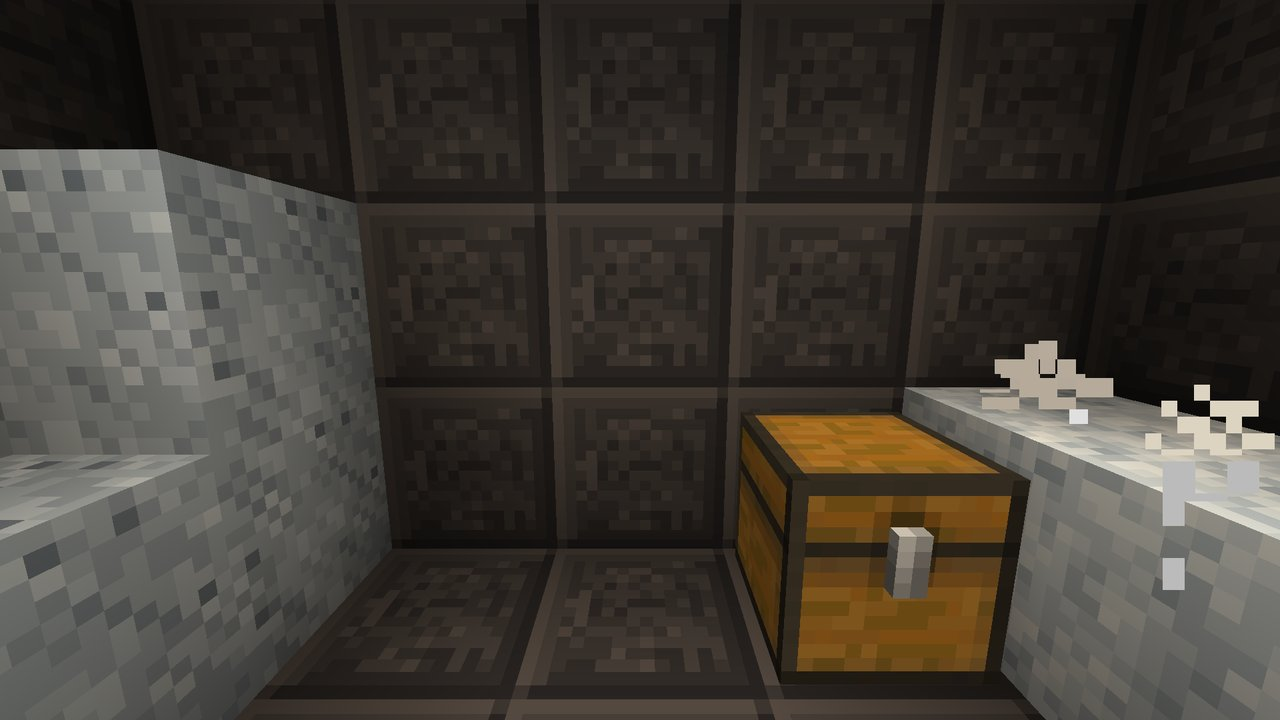
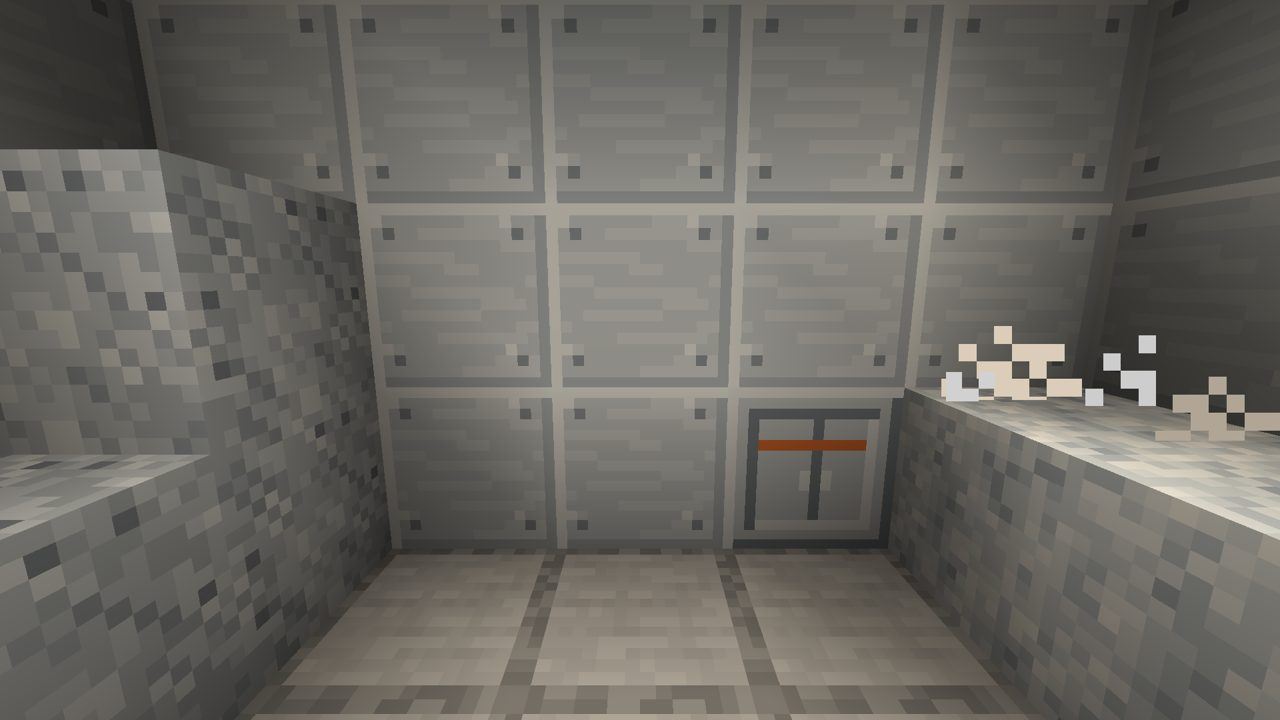
Phobos probe wreck and Deimos ice cache rebuilt
The Phobos sample-return probe is a small octagonal capsule nosed into its impact pit, with a foil band, a brown heat shield, its hatch blown open, one solar wing still on its arm and the other thrown out; the sample vault is a supply locker. The Deimos cache is lined with aluminium panels and lit by an LED under a cable duct, with supply lockers and a floodlit marker mast. Same loot and test.

diff --git a/src/main/java/com/pizzaparker07/spacebreaker/content/mars/dungeon/MoonletDungeonPiece.java b/src/main/java/com/pizzaparker07/spacebreaker/content/mars/dungeon/MoonletDungeonPiece.java
@@ -86,33 +86,78 @@ public class MoonletDungeonPiece extends StructurePiece {
                 }
             }
         }
-        // the probe body, tilted into the pit floor
-        int by = G - 2;
-        for (int x = 6; x <= 8; x++) {
-            for (int z = 6; z <= 8; z++) {
-                placeBlock(level, x == 7 && z == 7 ? s(Blocks.GOLD_BLOCK) : s(Blocks.WHITE_CONCRETE), x, by, z, box);
+        // the probe: a small octagonal capsule nosed into the pit floor, its heat shield to the east, the hatch to the
+        // west torn open; the sample vault is still sealed inside
+        int by = G - 3;
+        BlockState hull = s(Blocks.SMOOTH_QUARTZ);
+        BlockState rib = s(Blocks.POLISHED_ANDESITE);
+        BlockState foil = s(com.pizzaparker07.spacebreaker.content.belt.LanderBlocks.GOLD_FOIL_CLADDING.get());
+        for (int x = 4; x <= 9; x++) {
+            int sink = x >= 8 ? 1 : 0; // the nose went in deeper
+            boolean cap = x == 4 || x == 9;
+            for (int u = -2; u <= 2; u++) {
+                int au = Math.abs(u);
+                Direction in = u < 0 ? Direction.SOUTH : Direction.NORTH;
+                for (int v = 0; v <= 3; v++) {
+                    int y = by + v - sink;
+                    BlockState st = null;
+                    boolean interior = (au <= 1 && v >= 1 && v <= 2) || (au == 0 && v == 3);
+                    if (v == 0 && au <= 1) {
+                        st = cap ? rib : s(Blocks.SMOOTH_STONE);
+                    } else if (v == 0) {
+                        st = s(Blocks.SMOOTH_QUARTZ_STAIRS).setValue(net.minecraft.world.level.block.StairBlock.FACING, in)
+                                .setValue(net.minecraft.world.level.block.StairBlock.HALF, Half.TOP);
+                    } else if (interior) {
+                        st = cap ? rib : s(Blocks.AIR);
+                    } else if (au == 2 && v <= 2) {
+                        st = cap ? rib : v == 1 ? foil : hull;
+                    } else if (au == 2) {
+                        st = s(Blocks.SMOOTH_QUARTZ_STAIRS).setValue(net.minecraft.world.level.block.StairBlock.FACING, in);
+                    } else if (v == 3) {
+                        st = cap ? rib : hull;
+                    }
+                    if (st != null) {
+                        com.pizzaparker07.spacebreaker.content.dungeons.PieceOrientation.place(level, this, st, x, y, 7 + u, box);
+                    }
+                }
             }
         }
-        placeBlock(level, s(Blocks.WHITE_CONCRETE), 7, by + 1, 7, box);
-        placeBlock(level, s(Blocks.LIGHTNING_ROD), 7, by + 2, 7, box);
-        placeBlock(level, Blocks.IRON_TRAPDOOR.defaultBlockState().setValue(TrapDoorBlock.HALF, Half.TOP), 6, by + 1, 7, box);
-        // torn solar wings and debris thrown out of the pit
-        placeBlock(level, s(MachinesModule.SOLAR_PANEL.get()), 2, G + 1, 6, box);
-        placeBlock(level, s(MachinesModule.SOLAR_PANEL.get()), 12, G + 1, 9, box);
-        placeBlock(level, s(Blocks.IRON_BARS), 11, G + 2, 3, box);
-        placeBlock(level, s(Blocks.WHITE_CONCRETE), 3, G + 2, 11, box);
-        chest(level, box, 8, by + 1, 7, MarsLoot.PHOBOS_PROBE);
+        // the heat shield: a brown dish across the nose
+        for (int u = -2; u <= 2; u++) {
+            for (int v = 0; v <= 3; v++) {
+                if (Math.abs(u) + Math.abs(v - 1.5) <= 3) {
+                    placeBlock(level, Math.abs(u) <= 1 && v >= 1 && v <= 2 ? s(Blocks.BROWN_TERRACOTTA) : s(Blocks.TERRACOTTA), 10, by + v - 1, 7 + u, box);
+                }
+            }
+        }
+        // the hatch, blown open and lying in the dust
+        placeBlock(level, s(Blocks.AIR), 4, by + 1, 7, box);
+        placeBlock(level, s(Blocks.AIR), 4, by + 2, 7, box);
+        placeBlock(level, Blocks.IRON_TRAPDOOR.defaultBlockState().setValue(TrapDoorBlock.HALF, Half.BOTTOM), 3, by + 1, 6, box);
+        com.pizzaparker07.spacebreaker.content.dungeons.locker.SupplyLocker.place(level, this, 8, by, 7, Direction.WEST, MarsLoot.PHOBOS_PROBE,
+                seed ^ 0x51L, box);
+        // one solar wing still on its arm, the other torn off and thrown out of the pit
+        placeBlock(level, s(Blocks.CHAIN).setValue(net.minecraft.world.level.block.ChainBlock.AXIS, Direction.Axis.Z), 6, by + 2, 4, box);
+        placeBlock(level, s(MachinesModule.SOLAR_PANEL.get()), 6, by + 2, 3, box);
+        placeBlock(level, s(MachinesModule.SOLAR_PANEL.get()), 6, by + 2, 2, box);
+        placeBlock(level, s(MachinesModule.SOLAR_PANEL.get()), 11, G + 2, 12, box);
+        placeBlock(level, s(MachinesModule.SOLAR_PANEL.get()), 12, G + 2, 12, box);
+        // debris: shell plates and a bent antenna
+        placeBlock(level, s(Blocks.SMOOTH_QUARTZ_SLAB), 2, G + 2, 10, box);
+        placeBlock(level, s(Blocks.SMOOTH_QUARTZ_SLAB), 12, G + 2, 4, box);
+        placeBlock(level, s(Blocks.LIGHTNING_ROD), 6, by + 4, 7, box);
     }
 
     private void iceCache(WorldGenLevel level, BoundingBox box) {
-        BlockState wall = s(MarsModule.POLISHED_MARTIAN_BASALT.base().get());
+        BlockState wall = s(com.pizzaparker07.spacebreaker.content.rocketry.base.BaseBlocks.ALUMINUM_PANEL.base().get());
         // vault: 7 x 7 x 4 room, 6 blocks under the surface
         int fy = G - 7;
         for (int x = 4; x <= 10; x++) {
             for (int z = 4; z <= 10; z++) {
                 for (int y = fy; y <= fy + 4; y++) {
                     boolean shell = x == 4 || x == 10 || z == 4 || z == 10 || y == fy || y == fy + 4;
-                    placeBlock(level, shell ? wall : s(Blocks.AIR), x, y, z, box);
+                    boolean rib = (x == 4 || x == 10) && (z == 4 || z == 10) || y == fy + 4 && (x == 7 || z == 7);
+                    placeBlock(level, shell ? (y == fy ? s(Blocks.SMOOTH_STONE) : rib ? s(Blocks.POLISHED_ANDESITE) : wall) : s(Blocks.AIR), x, y, z, box);
                 }
             }
         }
@@ -125,9 +170,11 @@ public class MoonletDungeonPiece extends StructurePiece {
         }
         placeBlock(level, s(MarsModule.DRY_ICE.get()), 9, fy + 1, 9, box);
         placeBlock(level, s(MarsModule.DRY_ICE.get()), 9, fy + 1, 8, box);
-        placeBlock(level, Blocks.LANTERN.defaultBlockState().setValue(LanternBlock.HANGING, true), 7, fy + 3, 7, box);
-        chest(level, box, 9, fy + 1, 5, MarsLoot.DEIMOS_CACHE);
-        chest(level, box, 8, fy + 1, 9, MarsLoot.DEIMOS_CACHE);
+        placeBlock(level, s(com.pizzaparker07.spacebreaker.content.rocketry.base.BaseBlocks.LED_PANEL.get()), 7, fy + 4, 7, box);
+        com.pizzaparker07.spacebreaker.content.dungeons.locker.SupplyLocker.place(level, this, 10, fy + 1, 6, Direction.WEST, MarsLoot.DEIMOS_CACHE, seed ^ 0x61L, box);
+        com.pizzaparker07.spacebreaker.content.dungeons.locker.SupplyLocker.place(level, this, 8, fy + 1, 10, Direction.NORTH, MarsLoot.DEIMOS_CACHE, seed ^ 0x62L, box);
+        placeBlock(level, s(com.pizzaparker07.spacebreaker.content.rocketry.base.BaseBlocks.CABLE_DUCT.get()), 6, fy + 4, 7, box);
+        placeBlock(level, s(com.pizzaparker07.spacebreaker.content.rocketry.base.BaseBlocks.CABLE_DUCT.get()), 8, fy + 4, 7, box);
         // shaft with ladder up to a hatch on the surface
         for (int y = fy + 1; y <= G; y++) {
             placeBlock(level, s(Blocks.AIR), 7, y, 4, box);
@@ -140,7 +187,10 @@ public class MoonletDungeonPiece extends StructurePiece {
         for (int y = G + 1; y <= G + 4; y++) {
             placeBlock(level, s(Blocks.IRON_BARS), 9, y, 3, box);
         }
-        placeBlock(level, s(Blocks.REDSTONE_LAMP), 9, G + 5, 3, box);
+        placeBlock(level, s(Blocks.POLISHED_ANDESITE), 9, G + 5, 3, box);
+        com.pizzaparker07.spacebreaker.content.dungeons.PieceOrientation.place(level, this,
+                s(com.pizzaparker07.spacebreaker.content.rocketry.base.BaseBlocks.FLOODLIGHT.get())
+                        .setValue(net.minecraft.world.level.block.DirectionalBlock.FACING, Direction.UP), 9, G + 6, 3, box);
     }
 
     private void chest(WorldGenLevel level, BoundingBox box, int x, int y, int z, net.minecraft.resources.ResourceKey<net.minecraft.world.level.storage.loot.LootTable> loot) {

diff --git a/src/testmod/java/com/pizzaparker07/spacebreaker/testmod/mars/MarsMoonsGameTests.java b/src/testmod/java/com/pizzaparker07/spacebreaker/testmod/mars/MarsMoonsGameTests.java
@@ -99,11 +99,11 @@ public final class MarsMoonsGameTests {
             }
             int chests = 0;
             for (BlockPos p : BlockPos.betweenClosed(bb.minX(), bb.minY(), bb.minZ(), bb.maxX(), bb.maxY(), bb.maxZ())) {
-                if (level.getBlockState(p).is(Blocks.CHEST) && level.getBlockEntity(p) instanceof ChestBlockEntity c && c.getLootTable() != null) {
+                if (level.getBlockEntity(p) instanceof com.pizzaparker07.spacebreaker.content.dungeons.locker.SupplyLockerBlockEntity c && c.getLootTable() != null) {
                     chests++;
                 }
             }
-            helper.assertTrue(chests >= 1, (cache ? "ice cache" : "probe wreck") + " needs its loot chest");
+            helper.assertTrue(chests >= 1, (cache ? "ice cache" : "probe wreck") + " needs its loot locker");
         }
         helper.succeed();
     }

diff --git a/docs/CONTENT.md b/docs/CONTENT.md
@@ -178,7 +178,7 @@ Her içerik paketi gerçek istemcide vitrin dünyasında fotoğraflanır; onayda
 | 🎨 | Stickney krateri | Phobos'un dev krateri sabit yerde (doğuş noktasının ~320 blok doğusu, 230 blok yarıçap, 58 blok derin kase); arazi motoruna `named_craters` (ad, x, enlem, yarıçap, derinlik, tepe) eklendi |
 | 🎨 | Bloklar | Phobos Regoliti, Deimos Regoliti (kalıcı ayak izi), Karbonlu Kondrit |
 | 🎨 | Yaratık: Çapa Örücüsü (Tether Spinner) | Phobos ve Deimos'ta; altı bacaklı, uzun sekmelerle gider; her sekmeden önce zemine ipek ip yapıştırır, ip gerilince geri çekilir (küçük ayda kaçış hızı dersi); havada ip parıltıyla görünür, bacaklar toplanır; ip (string) bırakır; karbonlu kondritle çekilir/üretilir |
-| 🎨 | Zindanlar | Düşmüş Numune Dönüş Sondası (Phobos), Deimos Buz Deposu, Stickney'nin Çapalı İniş Aracı (dünyada tek: Stickney tabanında; küçük sekizgen gövde, altın folyo kaplama, açık bacaklar ve ayak tablaları, biri katlanmış, kuzeyde küçük güneş kanadı; vinç gövdeli 3 harpun, çift halatlı zincirlerle zemine bağlı; veri kaydedici Malzeme Dolabında, "1/2000 g: geri sekti" levhası; güvenlik ipi, mikro-yerçekimi madenciliği / uzay sondası diskleri), Deimos Röle Kulesi (spiral 12 kaya yığını, her biri 2 blok yüksek ve 4+ blok uzak: Dünya'da aşılamaz, Deimos'ta her gerçekçilik ayarında aşılır — test MC zıplama fiziğiyle doğrular; tepede röle ve veri kasası, "1/4000 g" levhası) |
+| 🎨 | Zindanlar | Düşmüş Numune Dönüş Sondası (Phobos: çarpma çukuruna burnuyla gömülmüş küçük sekizgen kapsül, altın folyo şerit, kahverengi ısı kalkanı, yerde yatan kapak, kolunda kalan ve kopup savrulan güneş kanatları; numune kasası Malzeme Dolabında), Deimos Buz Deposu (alüminyum panel kaplı mahzen, LED ve kablo kanalı, Malzeme Dolapları, ışıldaklı işaret direği), Stickney'nin Çapalı İniş Aracı (dünyada tek: Stickney tabanında; küçük sekizgen gövde, altın folyo kaplama, açık bacaklar ve ayak tablaları, biri katlanmış, kuzeyde küçük güneş kanadı; vinç gövdeli 3 harpun, çift halatlı zincirlerle zemine bağlı; veri kaydedici Malzeme Dolabında, "1/2000 g: geri sekti" levhası; güvenlik ipi, mikro-yerçekimi madenciliği / uzay sondası diskleri), Deimos Röle Kulesi (spiral 12 kaya yığını, her biri 2 blok yüksek ve 4+ blok uzak: Dünya'da aşılamaz, Deimos'ta her gerçekçilik ayarında aşılır — test MC zıplama fiziğiyle doğrular; tepede röle ve veri kasası, "1/4000 g" levhası) |
 
 ### Venüs `spacebreaker:venus`
 | Durum | İçerik | Not |
